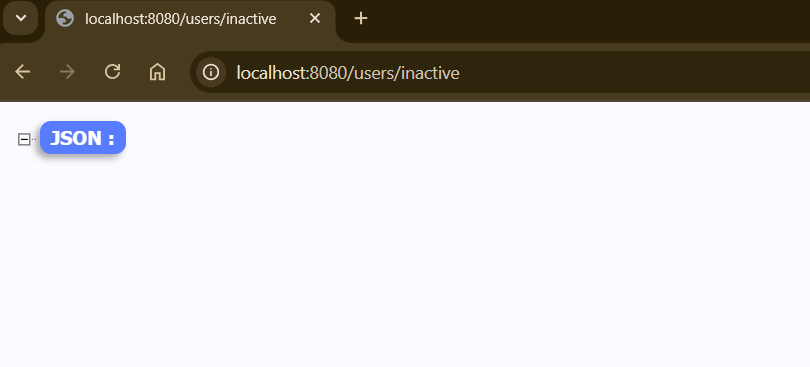
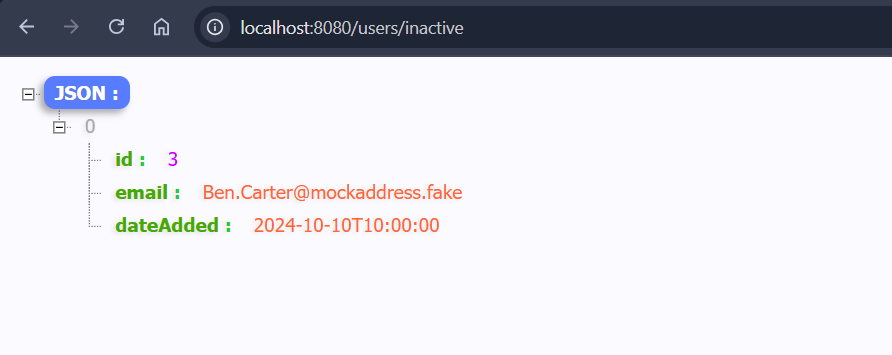
Update UserService#findInactiveByDatePeriod fixing the start and end date queries

diff --git a/src/main/java/ie/demo/domain/repo/UserRepository.java b/src/main/java/ie/demo/domain/repo/UserRepository.java
@@ -12,29 +12,41 @@ public interface UserRepository extends JpaRepository<User, Long> {
 
     @Query(
         "SELECT" +
-        " DISTINCT  u " +
-        "FROM " +
-        " User u JOIN u.documents d " +
-        "WHERE " +
-        " d.uploadedAt >= :startDate" )
-    List<User> findUsersDocumentUpdateAfter(@Param("startDate") LocalDateTime startDate);
+         " u " +
+         "FROM " +
+         " User u " +
+         "WHERE " +
+         " u.id NOT IN (SELECT DISTINCT d.user.id FROM Document d)" )
+    List<User> findUsersWithoutDocumentUpdates();
 
     @Query(
         "SELECT" +
         " DISTINCT  u " +
         "FROM " +
-        " User u JOIN u.documents d " +
-        "WHERE " +
-        " d.uploadedAt <= :endDate" )
-    List<User> findUsersWithDocumentUpdateBefore(@Param("endDate") LocalDateTime endDate);
+        " User u " +
+        "WHERE u.id NOT IN ( " +
+        " SELECT DISTINCT d.user.id FROM Document d " +
+        " WHERE d.uploadedAt > :startDate )")
+    List<User> findUsersWithoutDocumentUpdatesOnOrAfter(@Param("startDate") LocalDateTime startDate);
 
     @Query(
         "SELECT" +
         " DISTINCT  u " +
         "FROM " +
-        " User u JOIN u.documents d " +
-        "WHERE " +
-        " d.uploadedAt BETWEEN :startDate AND :endDate" )
-    List<User> findUsersWithDocumentUpdateBetween(@Param("startDate") LocalDateTime startDate,
-                                                  @Param("endDate") LocalDateTime endDate);
+        " User u " +
+        "WHERE u.id NOT IN ( " +
+        " SELECT DISTINCT d.user.id FROM Document d " +
+        " WHERE d.uploadedAt < :endDate )")
+    List<User> findUsersWithoutDocumentUpdatesOnOrBefore(@Param("endDate") LocalDateTime endDate);
+
+    @Query( value =
+        "SELECT" +
+        " DISTINCT  u " +
+        "FROM " +
+        " User u " +
+        "WHERE u.id NOT IN ( " +
+        " SELECT DISTINCT d.user.id FROM Document d " +
+        " WHERE d.uploadedAt > :startDate AND d.uploadedAt < :endDate )")
+    List<User> findUsersWithoutDocumentUpdatesBetween(@Param("startDate") LocalDateTime startDate,
+                                                      @Param("endDate") LocalDateTime endDate);
 }

diff --git a/src/main/java/ie/demo/service/UserService.java b/src/main/java/ie/demo/service/UserService.java
@@ -10,6 +10,7 @@ import org.springframework.data.domain.PageRequest;
 import org.springframework.stereotype.Service;
 
 import java.time.LocalDate;
+import java.time.LocalTime;
 import java.util.List;
 import java.util.Optional;
 import java.util.stream.Collectors;
@@ -33,18 +34,25 @@ public class UserService {
                 .map(userMapper::toUserDTO);
     }
 
+    /**
+     * Find users that weren't uploading a document(s) between the {@code startDate} and {@code endDate}
+     * @param startDate
+     * @param endDate
+     * @return
+     */
     public List<UserDTO> findInactiveByDatePeriod(String startDate, String endDate) {
         if(StringUtils.isEmpty(startDate) && StringUtils.isEmpty(endDate)) {
-            return List.of();
+            return mapCollect(userRepository
+                    .findUsersWithoutDocumentUpdates());
         } else if(StringUtils.isEmpty(endDate)) {
-            return mapCollect(userRepository.findUsersDocumentUpdateAfter(
+            return mapCollect(userRepository.findUsersWithoutDocumentUpdatesOnOrAfter(
                     LocalDate.parse(startDate).atStartOfDay()));
         } else if(StringUtils.isEmpty(startDate)) {
-            return mapCollect(userRepository.findUsersWithDocumentUpdateBefore(
-                    LocalDate.parse(endDate).atStartOfDay()));
+            return mapCollect(userRepository.findUsersWithoutDocumentUpdatesOnOrBefore(
+                    LocalDate.parse(endDate).atTime(LocalTime.MAX)));
         } else {
-            return mapCollect(userRepository.findUsersWithDocumentUpdateBetween(
-                    LocalDate.parse(startDate).atStartOfDay(), LocalDate.parse(endDate).atStartOfDay()));
+            return mapCollect(userRepository.findUsersWithoutDocumentUpdatesBetween(
+                    LocalDate.parse(startDate).atStartOfDay(), LocalDate.parse(endDate).atTime(LocalTime.MAX)));
         }
     }
 

diff --git a/README.md b/README.md
@@ -15,7 +15,7 @@ https://github.com/jerwine/document-analyzer/blob/main/src/main/resources/db/mig
 
 http://localhost:8080/h2-console
 
-![img.png](img/img.png)
+![img.png](img/img_5.png)
 ![img_11.png](img/img_11.png)
 
 http://localhost:8080/users/
@@ -28,19 +28,19 @@ http://localhost:8080/users/1
 
 http://localhost:8080/users/inactive
 
-![img_3.png](img/img_3.png)
+![img.png](img/img_3.png)
 
 http://localhost:8080/users/inactive?startDate=2024-12-03
 
-![img_4.png](img/img_4.png)
+![img.png](img/img_4.png)
 
 http://localhost:8080/users/inactive?startDate=2024-11-11&endDate=2025-12-12
 
-![img_5.png](img/img_5.png)
+![img.png](img/img_5.png)
 
 http://localhost:8080/users/inactive?endDate=2025-12-12
 
-![img_6.png](img/img_6.png)
+![img.png](img/img_6.png)
 
 http://localhost:8080/documents
 
